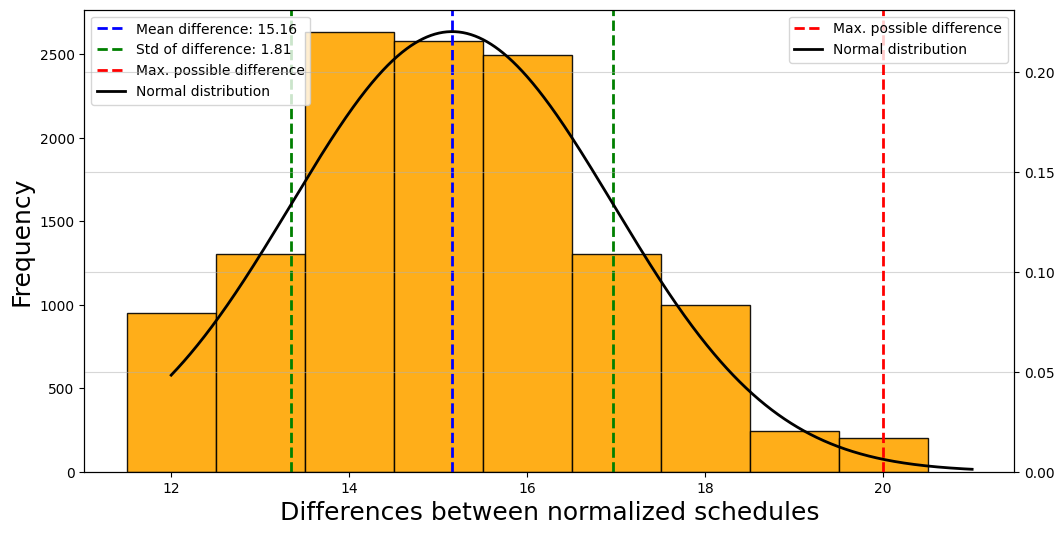
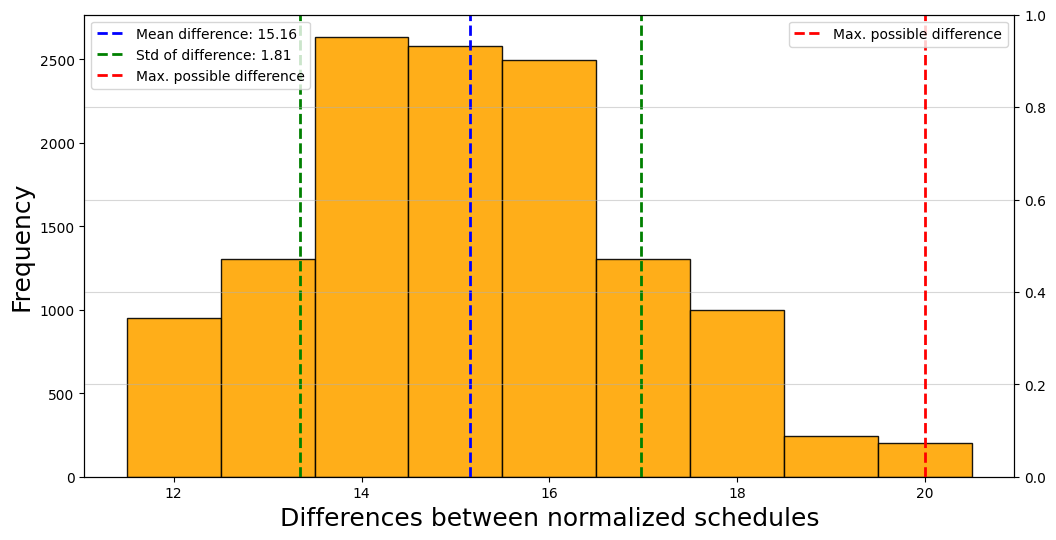
TTP plots now use the betabinom mean and std if applicable

diff --git a/TTP/plot.py b/TTP/plot.py
@@ -82,6 +82,10 @@ def plot_diff_norm(file_path, n, plot_ID, title_add="", show=False):
             ax2.plot(x_axis_fit, pdf_fitted, color='black', linestyle='-', linewidth=2, label="Normal distribution")
         elif n > 4:
             a, b = fit_beta_binom(x_axis, np.append(freqs, [0]), max_diff)
+
+            mean_diff = betabinom.mean(max_diff, a, b, loc=0)
+            std_diff = betabinom.std(max_diff, a, b, loc=0)
+
             pmf_fitted = betabinom.pmf(x_axis, max_diff, a, b, loc=0)
             ax2.plot(x_axis, pmf_fitted, color='black', linestyle='-', linewidth=2, label=f"Beta binom distribution: a={a:.2f}, b={b:.2f}")
 
